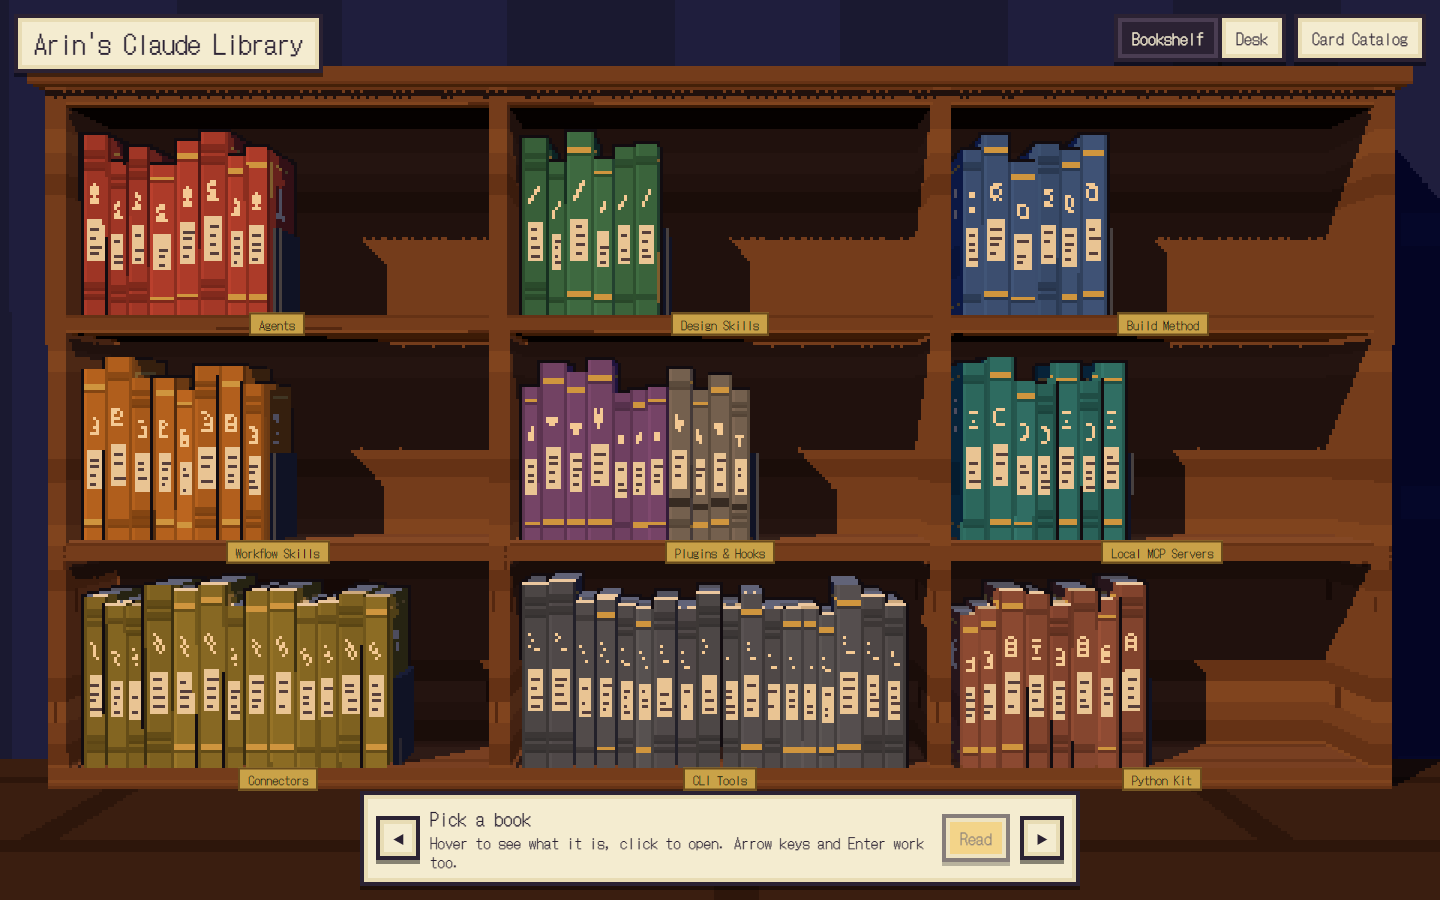
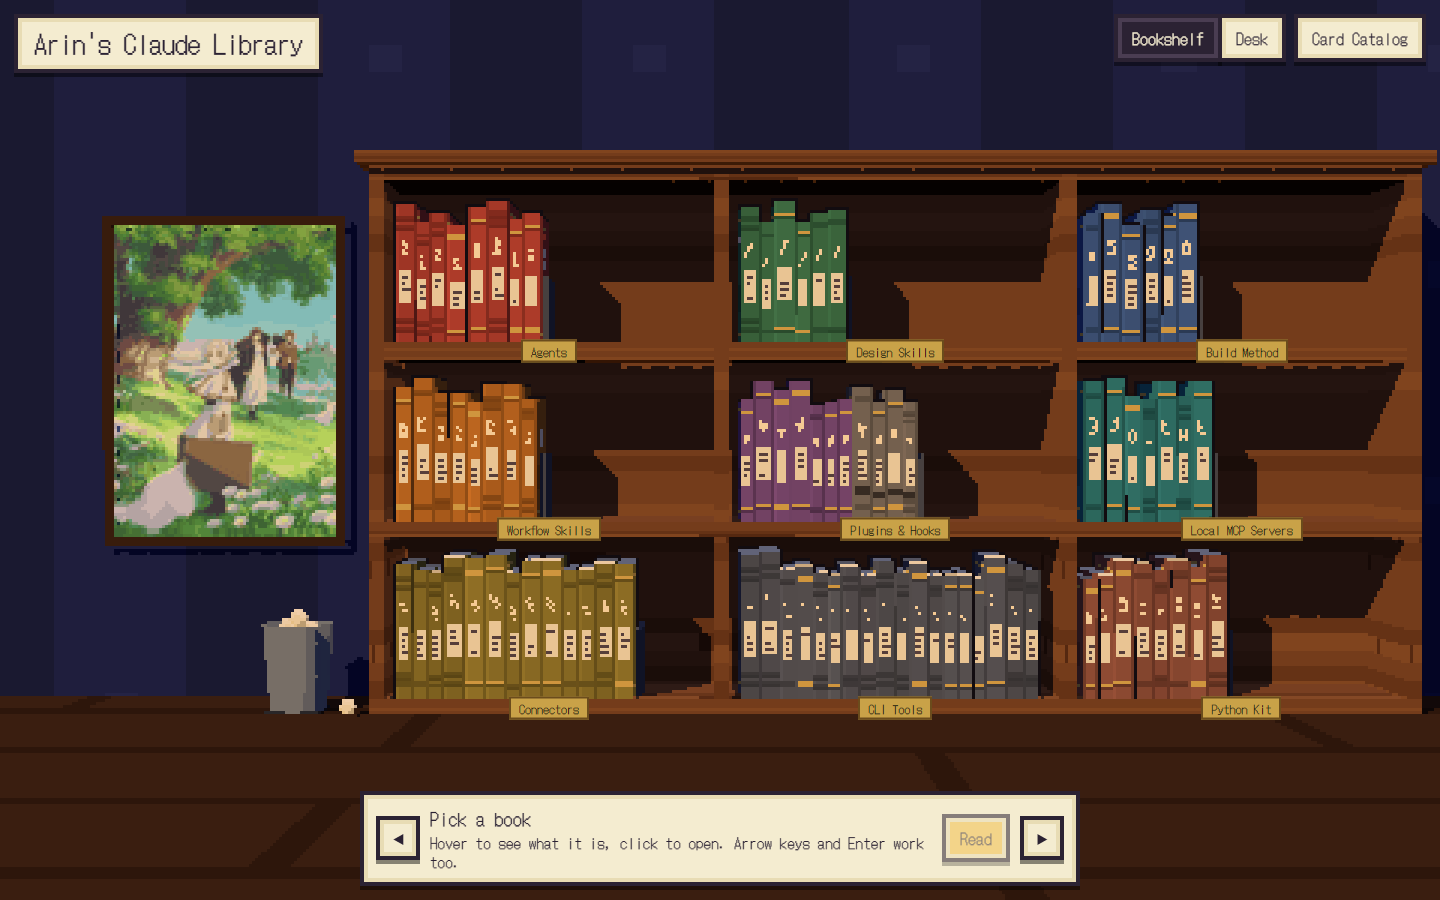
Framed pixel Frieren poster and a paper bin left of the shelf
Shelf view widens on wide screens to frame them. Poster credited in README and LICENSE.

diff --git a/app.js b/app.js
@@ -201,6 +201,9 @@ floor.rotation.x = -Math.PI / 2; floor.receiveShadow = true; scene.add(floor);
 // ---------- room: bookcase and desk ----------
 const CW = 2.6, CH = 1.28, T = 0.12, D = 0.9, BD = 0.64;
 const DW = 7.0, DD = 2.5, TH = 2.0;
+const POSTER_H = 2.6, POSTER_W = POSTER_H * 72 / 101;
+const posterTex = new THREE.TextureLoader().load('assets/poster.png');
+posterTex.magFilter = posterTex.minFilter = THREE.NearestFilter; posterTex.generateMipmaps = false; posterTex.colorSpace = THREE.SRGBColorSpace;
 const outlineMat = new THREE.MeshBasicMaterial({ color: '#120c10', side: THREE.BackSide });
 const woodMat = toon({ map: woodTex });
 const pagesMat = toon({ map: pagesTex });
@@ -270,6 +273,21 @@ function buildRoom() {
   for (let r = 0; r <= rows; r++) addBox(g, caseW, T, D, woodMat, 0, caseH / 2 - T / 2 - r * (CH + T), 0);
   addBox(g, caseW + 0.16, 0.1, D + 0.12, woodMat, 0, caseH / 2 + 0.05, 0.02);
   wall.position.set(caseW / 2, 4, -D / 2 - 0.02);
+
+  // Framed poster and a paper bin on the wall left of the case. Wide screens frame them in.
+  const px = -caseW / 2 - 0.45 - POSTER_W / 2, py = Math.min(caseH / 2 - POSTER_H / 2 - 0.1, 0.5), pz = -D / 2 + 0.03;
+  const poster = new THREE.Mesh(new THREE.PlaneGeometry(POSTER_W, POSTER_H), toon({ map: posterTex }));
+  poster.position.set(px, py, pz); poster.receiveShadow = true; g.add(poster);
+  const frame = toon({ color: '#3b2416' });
+  for (const [w, h, x, y] of [[POSTER_W + 0.16, 0.08, 0, POSTER_H / 2 + 0.04], [POSTER_W + 0.16, 0.08, 0, -POSTER_H / 2 - 0.04], [0.08, POSTER_H, -POSTER_W / 2 - 0.04, 0], [0.08, POSTER_H, POSTER_W / 2 + 0.04, 0]]) addBox(g, w, h, 0.06, frame, px + x, py + y, pz + 0.01);
+  const fy = -caseH / 2, bx = -caseW / 2 - 0.6, bz = 0.25;
+  const bin = new THREE.Mesh(new THREE.CylinderGeometry(0.28, 0.22, 0.7, 10, 1, true), toon({ color: '#7d8794', side: THREE.DoubleSide }));
+  bin.position.set(bx, fy + 0.35, bz); bin.castShadow = bin.receiveShadow = true; g.add(bin);
+  addBox(g, 0.42, 0.02, 0.42, toon({ color: '#2a2d33' }), bx, fy + 0.01, bz);
+  const paper = toon({ color: '#f4ecd0' });
+  for (const [x, y, z, r] of [[-0.06, 0.66, 0.02, 0.1], [0.08, 0.64, -0.05, 0.09], [0.02, 0.74, 0.06, 0.08], [0.45, 0.07, 0.25, 0.07]]) {
+    const ball = new THREE.Mesh(new THREE.IcosahedronGeometry(r, 0), paper); ball.position.set(bx + x, fy + y, bz + z); ball.castShadow = true; g.add(ball);
+  }
   floor.position.set(caseW / 2, -caseH / 2, 2);
 
   cells = library.shelves.map((shelf, si) => {
@@ -347,13 +365,15 @@ function buildRoom() {
 // Links like #/stark open that item straight away, so a single book can be shared.
 const deepLink = location.hash.startsWith('#/') ? [...books, ...deskItems].find((i) => slug(i.n) === location.hash.slice(2)) : null;
 let view = location.hash === '#desk' || (deepLink && deepLink.type !== 'book') ? 'desk' : 'shelf';
-let scrollRange = 0, yTop = 0, yBottom = 0, dist = 10, camX = 0, parallax = 0, viewT = 1;
+let shelfX = 0, scrollRange = 0, yTop = 0, yBottom = 0, dist = 10, camX = 0, parallax = 0, viewT = 1;
 const camFrom = { pos: new V3(), look: new V3() }, camLook = new V3();
 function usable() { return (innerHeight - (innerWidth < 640 ? 190 : 200)) / innerHeight; }
 function fitCamera() {
   const w = innerWidth, h = innerHeight;
   camera.aspect = w / h; camera.updateProjectionMatrix();
-  const byW = (caseW * 1.06) / (2 * FOV_T * camera.aspect);
+  // On wide screens the shelf view also frames the poster and bin on the left.
+  shelfX = cols > 1 && camera.aspect >= 1.25 ? -(POSTER_W + 0.9) / 2 : 0;
+  const byW = ((caseW - shelfX * 2) * 1.06) / (2 * FOV_T * camera.aspect);
   const byH = (caseH * 1.04) / (2 * FOV_T * usable());
   dist = cols === 1 ? byW : Math.max(byW, byH);
   const over = Math.max(0, caseH * 1.04 - 2 * dist * FOV_T * usable());
@@ -364,7 +384,7 @@ function fitCamera() {
 const scroll01 = () => (scrollRange ? clamp(scrollY / scrollRange, 0, 1) : 0);
 const camYForScroll = () => lerp(yTop, yBottom, scroll01()) - 0.08;
 function pose(v) {
-  if (v === 'shelf') { const cy = camYForScroll(); return { pos: new V3(camX, cy + 0.1, dist), look: new V3(0, cy, 0) }; }
+  if (v === 'shelf') { const cy = camYForScroll(); return { pos: new V3(shelfX + camX, cy + 0.1, dist), look: new V3(shelfX, cy, 0) }; }
   const look = new V3(deskX, topY + 0.05, deskZ + 0.15);
   const pitch = THREE.MathUtils.degToRad(46);
   // Portrait screens frame the three objects, not the whole table, so they stay big enough to tap.

diff --git a/tools/shoot.py b/tools/shoot.py
@@ -57,7 +57,7 @@ with sync_playwright() as pw:
     p = page_for(b, 1440, 900)
     check(p.locator('#motion-btn').count() == 0, 'there is no motion switch')
     shot(p, 'shelf')
-    p.mouse.move(250, 260)
+    p.mouse.move(460, 270)
     p.wait_for_timeout(500)
     check(p.locator('#read-btn').is_enabled(), 'hovering a spine selects it')
 

diff --git a/README.md b/README.md
@@ -17,6 +17,8 @@ The desk next to it holds:
 - **The Claude Handbook**, the rules Claude follows here, in ten chapters: how it talks to me, the ADHD working rules, the banned writing tells, which skills are mandatory, the antislop design filter and more. It opens on a contents page you can click, and every chapter opens with Clawd, the Claude Code crab, in a different outfit.
 - A fishbowl with a clownfish, because a desk needs one.
 
+On the wall left of the shelf hangs a pixelated poster of my favourite anime, Frieren: Beyond Journey's End, next to a paper bin.
+
 ![The desk](docs/desk.png)
 
 | Open book | Page turn | Install page |
@@ -119,8 +121,8 @@ Every item has its own link: opening one puts it in the address bar, like `#/sta
 
 ## Credits
 
-Built with [Claude Code](https://claude.com/claude-code). [three.js](https://threejs.org) (MIT). [DotGothic16](https://fonts.google.com/specimen/DotGothic16) by Fontworks (SIL Open Font License). The transcribe skill is a Windows port of Hugo Manning's [transcribe-skill](https://github.com/learnaiwithhugo/transcribe-skill) (MIT). Jarvis, Cortana and Friday started from [VoltAgent's subagents](https://github.com/VoltAgent/awesome-claude-code-subagents). Third-party skills and plugins on the shelves belong to their authors and link to their sources.
+Built with [Claude Code](https://claude.com/claude-code). [three.js](https://threejs.org) (MIT). [DotGothic16](https://fonts.google.com/specimen/DotGothic16) by Fontworks (SIL Open Font License). The transcribe skill is a Windows port of Hugo Manning's [transcribe-skill](https://github.com/learnaiwithhugo/transcribe-skill) (MIT). Jarvis, Cortana and Friday started from [VoltAgent's subagents](https://github.com/VoltAgent/awesome-claude-code-subagents). Third-party skills and plugins on the shelves belong to their authors and link to their sources. The poster is a pixelated fan tribute to the key visual of *Frieren: Beyond Journey's End* (© Kanehito Yamada, Tsukasa Abe / Shogakukan / Frieren Project Committee); it is not affiliated with them and is not covered by this repo's license.
 
 ## License
 
-MIT for the library code and my own files in `kit/`. Third-party files keep their own licenses.
+MIT for the library code and my own files in `kit/`. Third-party files and the poster artwork keep their own rights.
